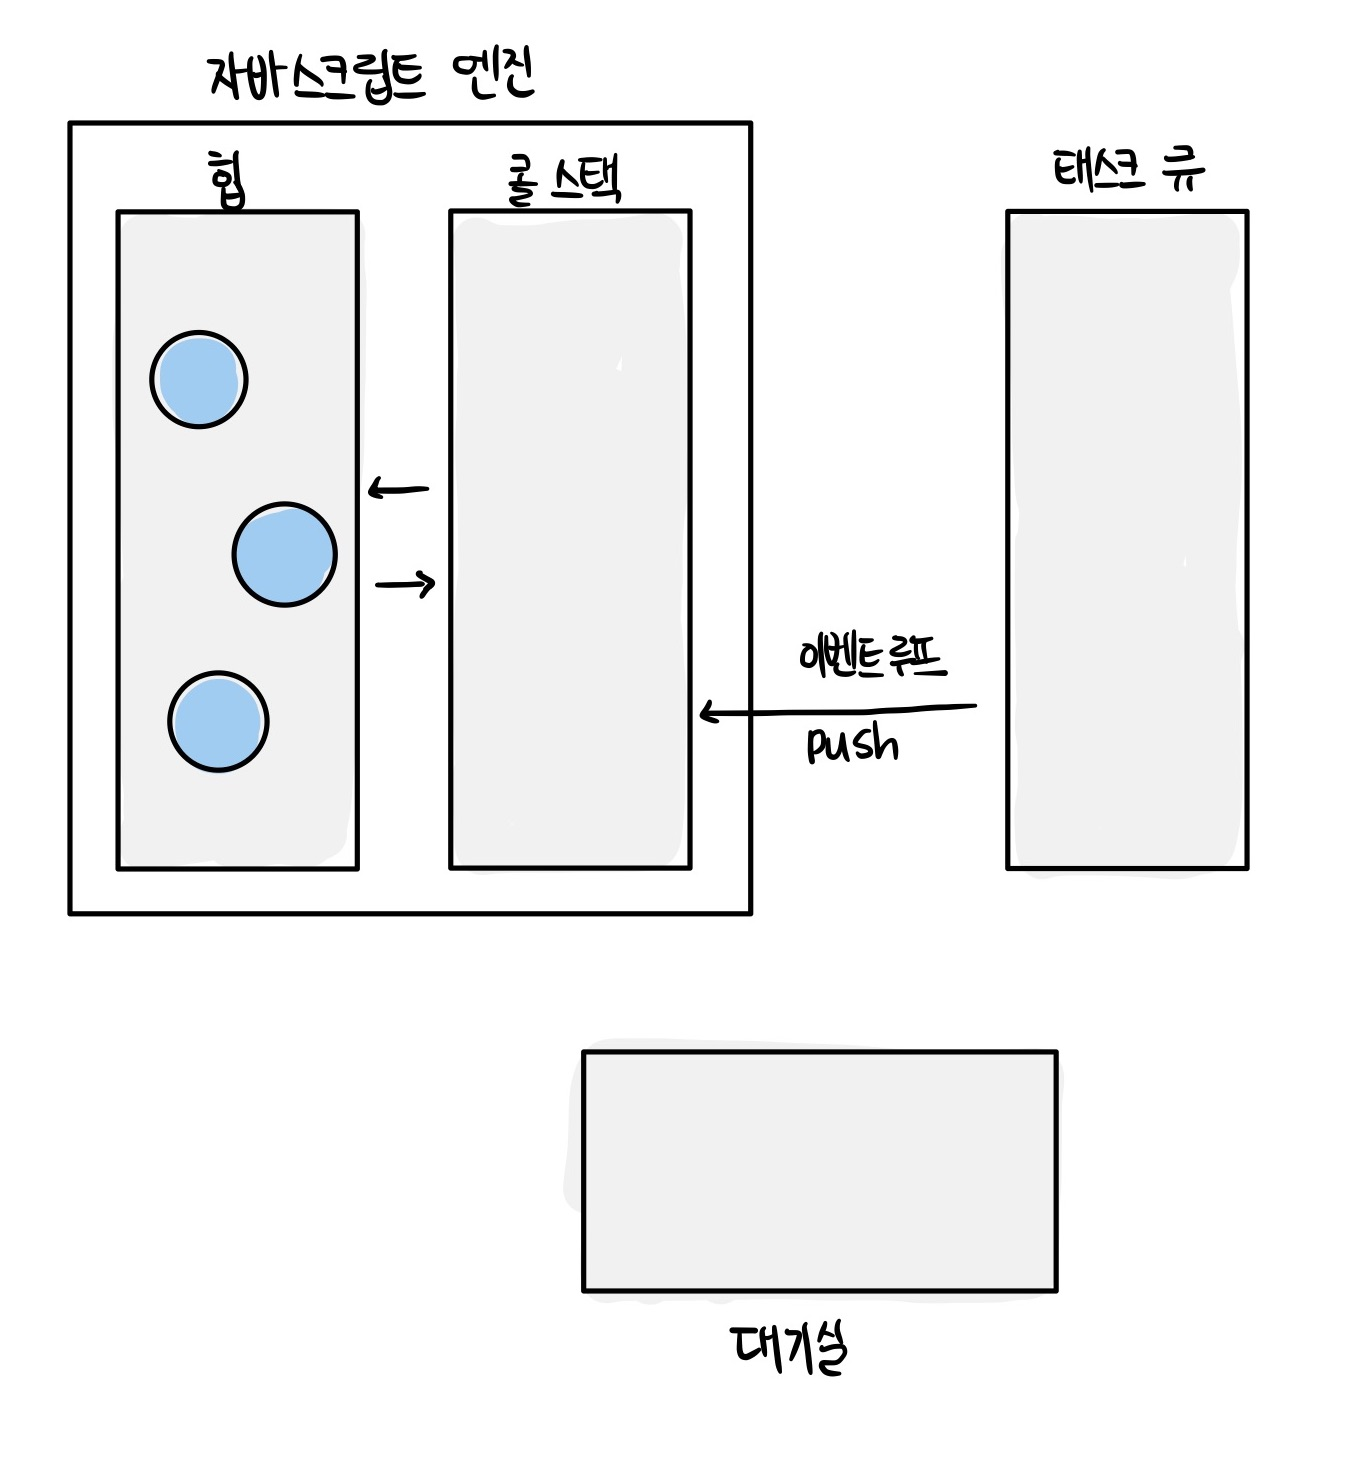
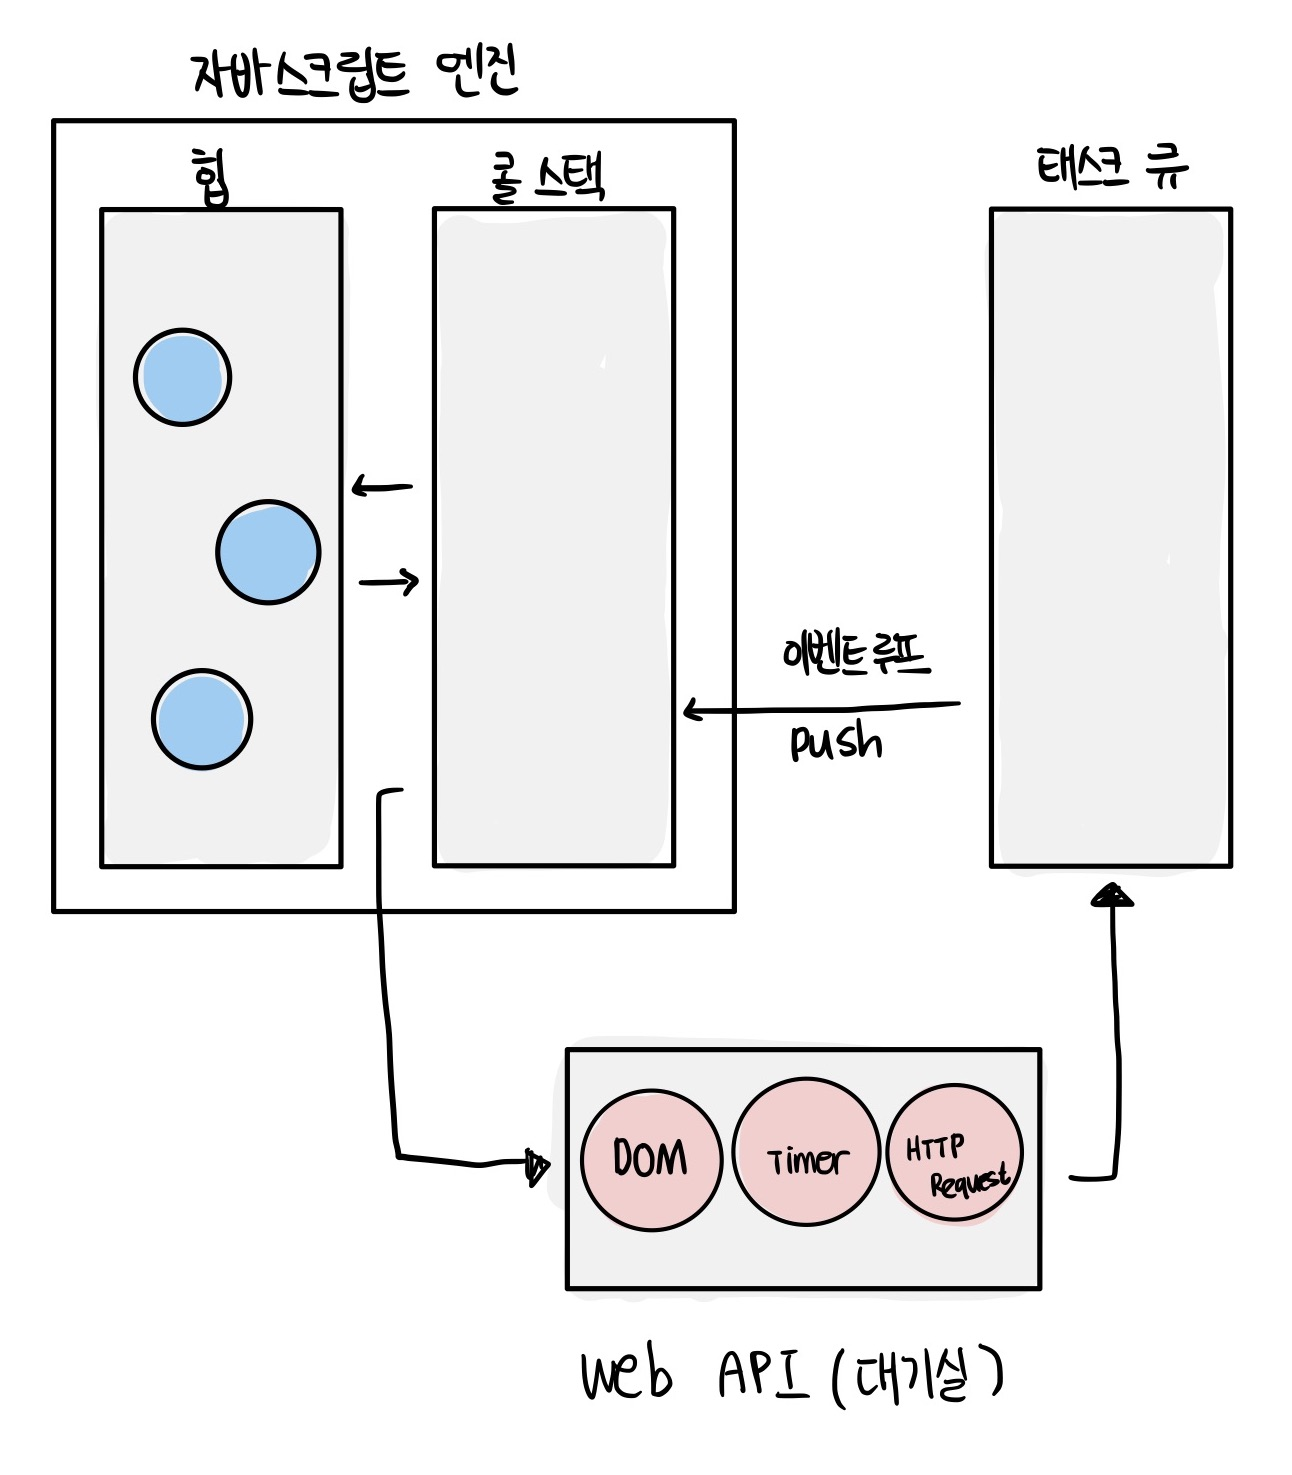
DEEP DIVE 42장 예제 추가/ 이미지 변경

Changed region(s): [[0.031, 0.0309, 0.9598, 0.9574]]

diff --git a/DEEPDIVE/loop.js b/DEEPDIVE/loop.js
@@ -1,0 +1,9 @@
+function printNum(n) {
+  console.log(n);
+}
+
+printNum(1);
+setTimeout(() => printNum(2), 3000);
+setTimeout(() => printNum(3), 2000);
+setTimeout(() => printNum(4), 1000);
+printNum(5);

diff --git a/DEEPDIVE/readme7.md b/DEEPDIVE/readme7.md
@@ -419,13 +419,13 @@ setTimeout 함수는 앞서 살펴본 sleep 함수와 유사하게 일정 시간
 
 구글의 v8 자바스크립트 엔진을 비롯한 대부분의 자바스크립트 엔진은 크게 2개의 영역으로 구분할 수 있다.
 
-### 콜 스택
+### 📍 콜 스택 (call stack)
 
 - 소스코드(전역 코드 및 함수 코드 등) 평가 과정에서 생성된 실행 컨텍스트가 추가되고 제거되는 스택 자료구조인 실행 컨텍스트 스택이 바로 콜 스택이다.
 
 - 함수를 호출하면 함수 실행 컨텍스트가 순차적으로 콜 스택에 푸시되어 순차적으로 실행된다. 자바스크립트 엔진은 단 하나의 콜 스택을 사용하기 때문에 최상위 실행 컨텍스트(실행 중인 실행 컨텍스트)가 종료되어 콜 스택에서 제거되기 전까지는 다른 어떤 태스크도 실행되지 않는다.
 
-### 힙
+### 📍 힙 (heap)
 
 - 힙은 객체가 저장되는 메모리 공간이다. 콜 스택의 요소인 실행 컨텍스트는 힙에 저장된 객체를 참조한다.
 
@@ -436,23 +436,24 @@ setTimeout 함수는 앞서 살펴본 sleep 함수와 유사하게 일정 시간
 예를 들어,
 
 ① 비동기 방식으로 동작하는 setTimeout의 콜백 함수의 평가와 실행은 자바스크립트 엔진이 담당하지만
+
 ② 호출 스케줄링을 위한 타이머 설정과 콜백 함수의 등록은 브라우저 또는 Node.js가 담당한다.
 
 이를 위해 브라우저 환경은 태스크 큐와 이벤트 루프를 제공한다.
 
-### 태스크 큐 (task queue/event queue/callback queue)
+### 📍 태스크 큐 (task queue/event queue/callback queue)
 
 - setTimeout이나 setInterval과 같은 비동기 함수의 콜백 함수 또는 이벤트 핸들러가 일시적으로 보관되는 영역이다.
 - 태스크 큐와는 별도로 프로미스 후속 처리 메서드의 콜백 함수가 일시적으로 보관되는 마이크로태스크 큐도 존재한다.
 
-### 큐
+### 큐 (queue)
 
 - 스택 자료구조와 달리 선입선출(먼저 들어온 것이 먼저 나가는) 형식을 띈다
 - F.I.F.O(First In First Out) 라고도 부른다
 
 <img width="500" src="./images/39_2.jpg" alt="큐 자료구조">
 
-### 이벤트 루프 (event loop)
+### 📍 이벤트 루프 (event loop)
 
 - 이벤트 루프는 콜 스택에 현재 실행 중인 실행 컨텍스트가 있는지, 그리고 태스크 큐에 대기 중인 함수(콜백 함수, 이벤트 핸들러 등)가 있는지 반복해서 확인한다.
 - 만약 콜 스택이 비어 있고 태스크 큐에 대기 중인 함수가 있다면 이벤트 루프는 순차적(FIFO)으로 태스크 큐에 대기 중인 함수를 콜 스택으로 이동시킨다.
@@ -477,7 +478,7 @@ bar();
 
 1. 전역 코드가 평가되어 전역 실행 컨텍스트가 생성되고 콜 스택에 푸시된다.
 2. 전역 코드가 실행되기 시작하여 setTimeout 함수가 호출된다. 이때 setTimeout 함수의 실행 컨텍스트가 생성되고 콜 스택에 푸시되어 현재 실행 중인 컨텍스트가 된다. 브라우저의 Web API(호스트 객체)인 타이머 함수도 함수이므로 함수 실행 컨텍스트를 생성한다.
-3. setTimeout 함수가 실행되면 콜백 함수를 호출 스케줄링하고 종료되어 콜 스택에서 팝된다. 이때 호출 스케줄링, 즉 타이머 설정과 아티머가 만료되면 콜백 함수를 태스크 큐에 푸시하는 것은 브라우저의 역할이다.
+3. setTimeout 함수가 실행되면 콜백 함수를 📍 호출 스케줄링하고 종료되어 콜 스택에서 팝된다. 이때 호출 스케줄링, 즉 타이머 설정과 타이머가 만료되면 콜백 함수를 태스크 큐에 푸시하는 것은 브라우저의 역할이다.
 4. 브라우저가 수행하는 4-1과 자바스크립트 엔진이 수행하는 4-2는 병행 처리된다.
 
    4.1 브라우저는 타이머를 설정하고 타이머의 만료를 기다린다. 이후 타이머가 만료되면 콜백 함수 foo가 태스크 큐에 푸시된다.
@@ -488,7 +489,9 @@ bar();
 
    지연 시간 이후에 콜백 함수가 태스크 큐에 푸시되어 대기하게 되지만 콜 스택이 비어야 호출되므로 약간의 시간차가 발생할 수 있기 때문이다.
 
-   4.2 bar 함수가 호출되어 bar 함수의 함수 실행 컨텍스트가 생성되고 콜 스택에 푸시되어 현재 실행 중인 컨텍스트가 된다. 이후 bar 함수가 종료되어 콜 스택에서 팝된다. 이때 브라우저가 타이머를 설정한 후 4ms가 경과했다면 foo 함수는 아직 태스크 큐에서 대기 중이다.
+   4.2 bar 함수가 호출되어 bar 함수의 함수 실행 컨텍스트가 생성되고 콜 스택에 푸시되어 현재 실행 중인 컨텍스트가 된다. 이후 bar 함수가 종료되어 콜 스택에서 팝된다.
+
+   이때 브라우저가 타이머를 설정한 후 4ms가 경과했다면 foo 함수는 아직 태스크 큐에서 대기 중이다.
 
 5. 전역 코드 실행이 종료되고 전역 실행 컨텍스트가 콜 스택에서 팝된다. 이로서 콜 스택에는 아무런 실행 컨텍스트도 존재하지 않게 된다.
 
@@ -499,3 +502,43 @@ bar();
 자바스크립트는 싱글 스레드 방식으로 동작한다. 이때 싱글 스레드 방식으로 동작하는 것은 브라우저가 아니라 브라우저에 내장된 자바스크립트 엔진이라는 것에 주의하기 바란다.
 
 만약 모든 자바스크립트 코드가 자바스크립트 엔진에서 싱글 스레드 방식으로 동작한다면 자바스크립트는 비동기로 동작할 수 없다. 즉, 자바스크립트 엔진은 싱글 스레드로 동작하지만 브라우저는 멀티 스레드로 동작한다.
+
+### 호출 스케줄링
+
+```
+함수를 명시적으로 호출하지 않고 일정 시간이 경과된 이후에 호출되도록 함수 호출을 예약하려면 타이머 함수를 사용한다
+
+이를 호출 스케줄링(scheduling a call)이라 한다
+```
+
+### 직접 확인해보기
+
+> 어떤 결과가 나올지 확인해보자
+
+```js
+function printNum(n) {
+  console.log(n);
+}
+
+printNum(1);
+setTimeout(() => printNum(2), 3000);
+setTimeout(() => printNum(3), 2000);
+setTimeout(() => printNum(4), 1000);
+printNum(5);
+```
+
+① 비동기로 처리되는 타이머 함수와 ② 동기적으로 처리되는 console.log 메서드를 사용하였다
+
+<details>
+
+<img width="400" src="./images/loopResult.gif"/>
+
+1. 전역 코드가 실행되면서 console.log(1)을 만나, 함수 실행 컨텍스트를 생성한다
+2. 함수 실행 컨텍스트의 평가 과정과 실행 과정을 통해 숫자 1 을 출력한다
+3. setTimeout 함수가 실행되면 콜백 함수를 호출 스케줄링하고 종료되어 콜 스택에서 팝된다. 이때 호출 스케줄링, 즉 타이머 설정과 타이머가 만료되면 브라우저가 콜백 함수를 태스크 큐에 푸시한다
+4. 다음 setTimeout 함수를 실행한다. 같은 과정을 반복 하지만 3 , 4 의 비동기 처리 과정에서는 태스크의 순서를 보장하지 않으며, 타이머 만료 시간에 따라 태스트 큐에 푸시된다
+5. 따라서 4 > 3 > 2 순으로 태스크에 푸시되며, console.log(5) 에 대한 작업이 완료되어 실행 컨텍스트가 비워지고 아무런 실행 컨텍스트가 존재하지 않게된다
+6. 이때 태스트 큐의 자료구조에 따라 먼저 담긴 4 > 3 > 2 순(FIFO)으로 대기중인 콜백 함수를 이벤트 루프가 콜 스택에 푸시한다
+7. 이후 모든 콜백이 종료되고 콜 스택에서 팝 된 후, 작업이 완료된다
+
+</details>
